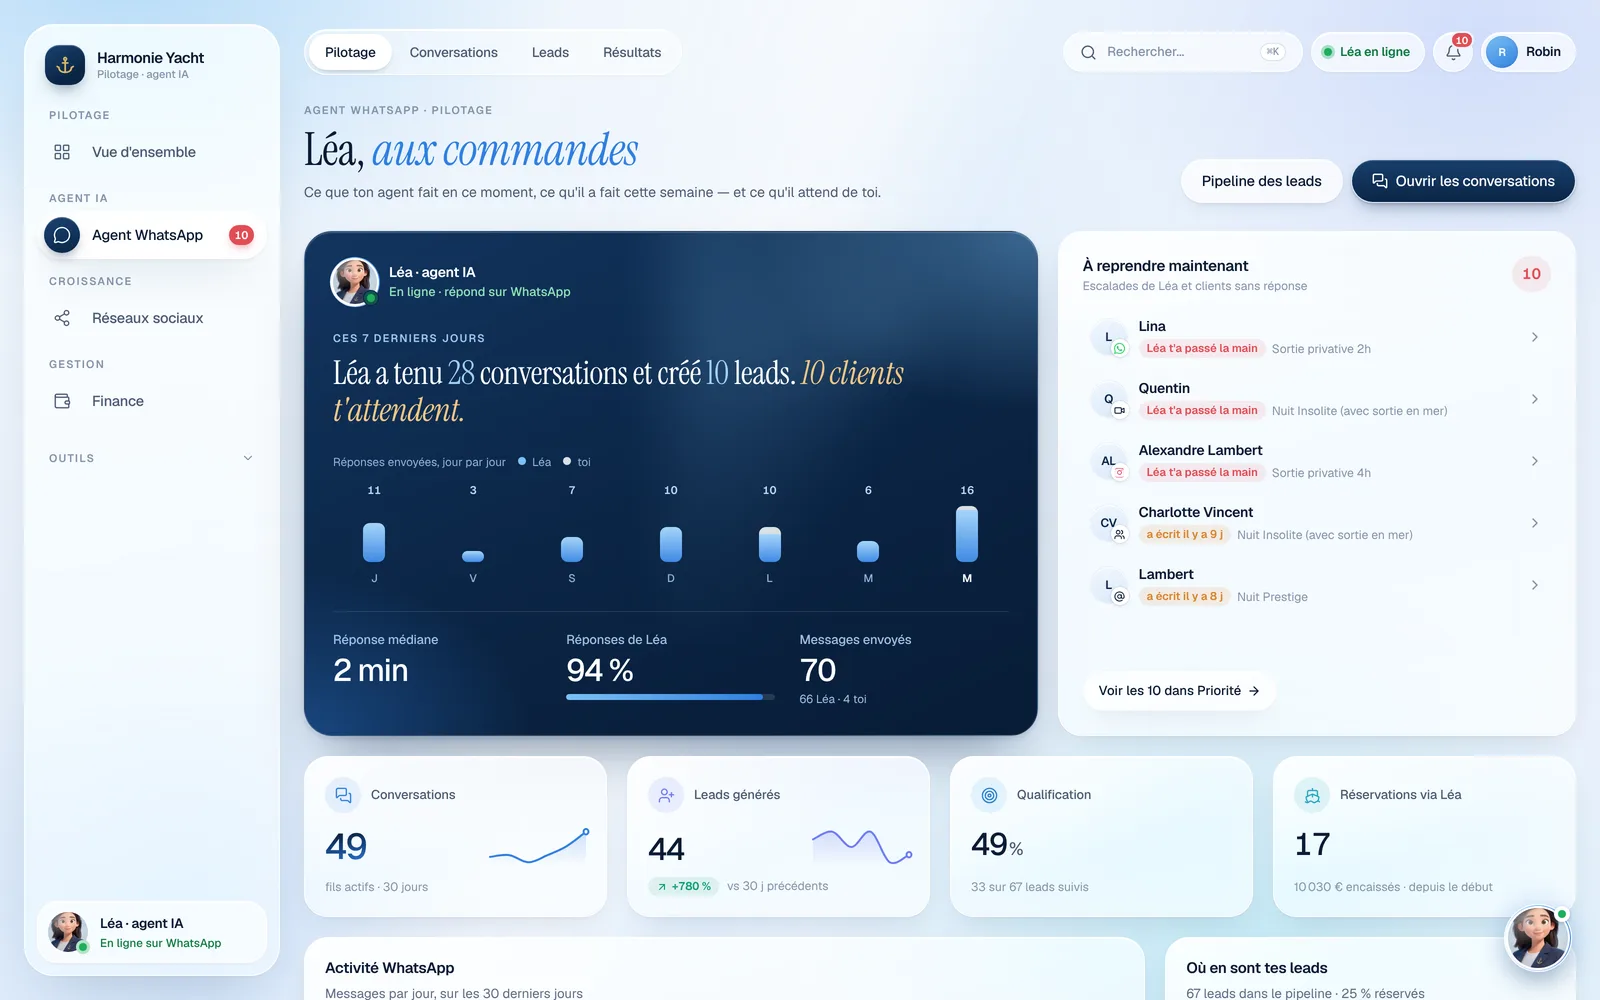
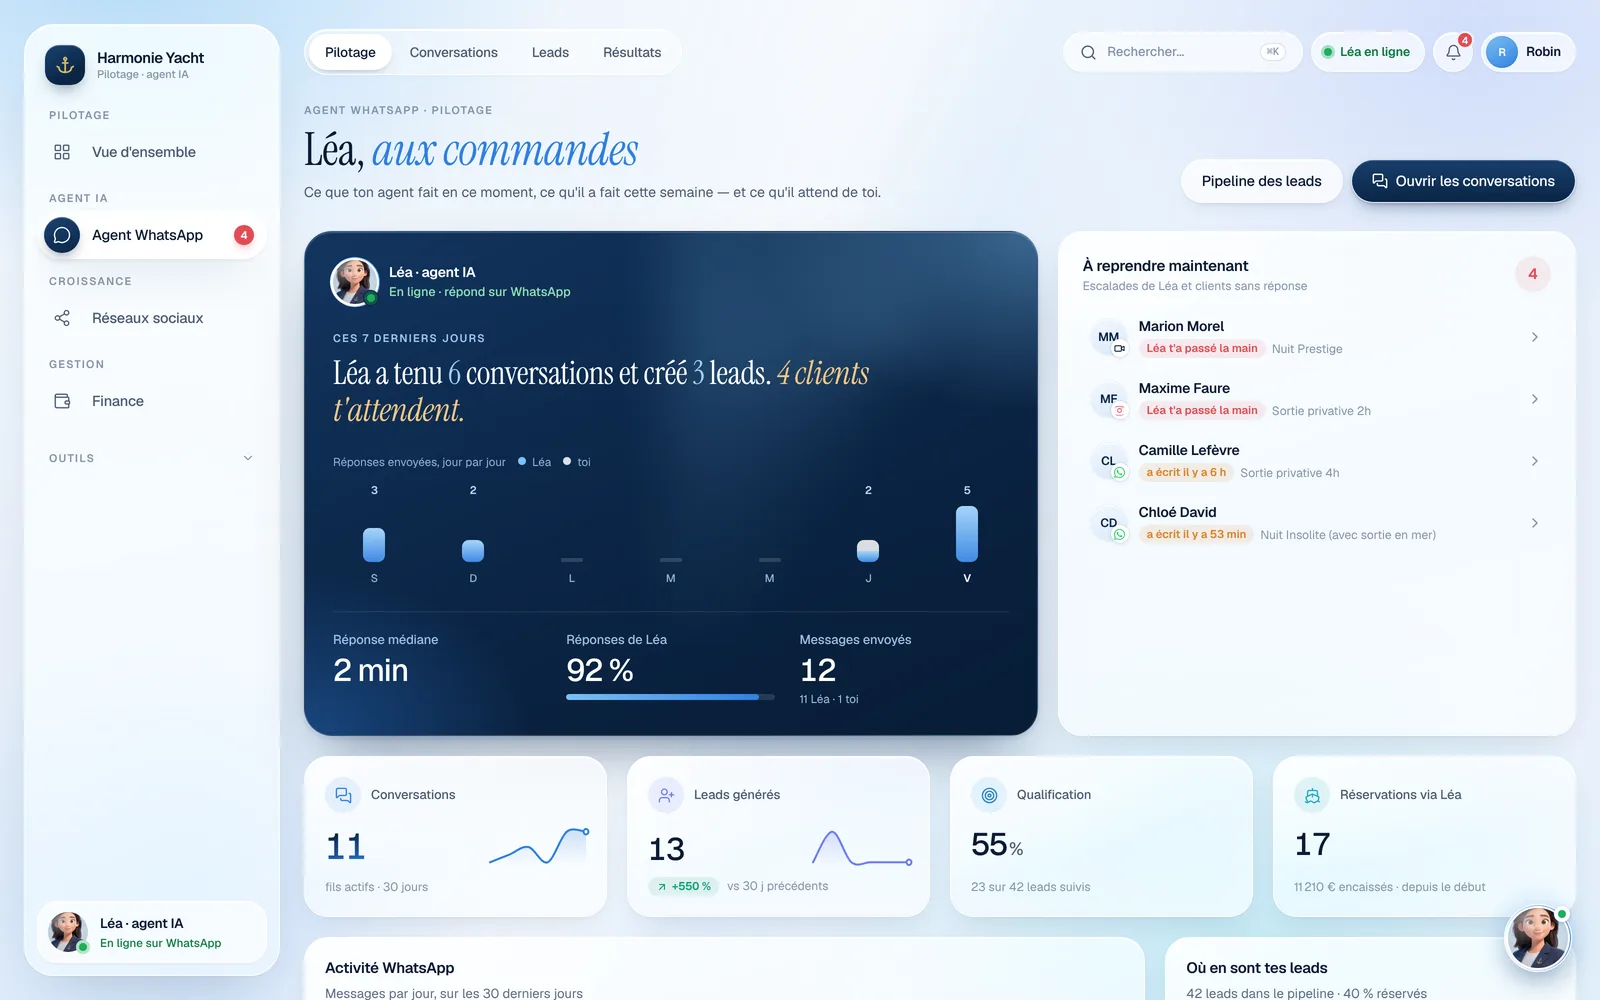
Démo : tableau de bord hors saison, fils WhatsApp réalistes et cohérents avec les fiches
Claude-Session: https://claude.ai/code/session_01FLDoQ7EEeDhU7H7gGycJrU

diff --git a/lib/demo/fixtures/core.ts b/lib/demo/fixtures/core.ts
@@ -103,13 +103,13 @@ const customers: Row[] = Array.from({ length: 70 }, (_, i) => {
 // Répartition réaliste d'un mois de novembre : la saison est finie, les
 // demandes portent sur les fêtes de fin d'année et le printemps.
 const LEAD_PLAN: Array<[string, number]> = [
-  ["new", 9],
-  ["contacted", 11],
-  ["qualified", 9],
-  ["quote_sent", 7],
-  ["followed_up", 6],
+  ["new", 2],
+  ["contacted", 3],
+  ["qualified", 3],
+  ["quote_sent", 3],
+  ["followed_up", 2],
   ["booked", 17],
-  ["lost", 8],
+  ["lost", 12],
 ];
 const CHANNELS = ["whatsapp", "whatsapp", "whatsapp", "whatsapp", "instagram_organic", "instagram_organic", "instagram_organic", "website", "google_organic", "tiktok_organic", "chatgpt", "word_of_mouth", "meta_ads"] as const;
 
@@ -130,10 +130,11 @@ for (const [status, n] of LEAD_PLAN) {
   for (let k = 0; k < n; k++) {
     const first = FIRST[(leadIndex * 3 + 5) % FIRST.length];
     const last = LAST[(leadIndex * 11 + 3) % LAST.length];
-    const recent = leadIndex % 3 !== 0;
-    const createdAgo = recent ? int(0, 29) : int(30, 160);
-    const created = daysFromNow(-createdAgo);
     const active = status !== "booked" && status !== "lost";
+    // Hors saison (novembre) : peu de nouvelles demandes. Les pistes actives
+    // datent du dernier mois ; les réservées et perdues, de la haute saison.
+    const createdAgo = active ? int(0, 29) : int(35, 210);
+    const created = daysFromNow(-createdAgo);
     const offer = pick(OFFERS);
     const desiredAhead =
       leadIndex % 9 === 0 ? int(2, 6) : leadIndex % 4 === 0 ? int(40, 70) : int(10, 180);
@@ -159,8 +160,8 @@ for (const [status, n] of LEAD_PLAN) {
         status === "quote_sent" || status === "qualified" ? int(6, 9) :
         status === "lost" ? int(1, 4) : int(3, 8),
       status,
-      needs_human_intervention: active && (leadIndex === 4 || leadIndex === 13 || leadIndex === 22),
-      last_interaction_at: active ? minutesAgo(int(20, 60 * 24 * 6)) : created.toISOString(),
+      needs_human_intervention: active && (leadIndex === 4 || leadIndex === 9),
+      last_interaction_at: active ? minutesAgo(int(45, 60 * 24 * 12)) : created.toISOString(),
       last_followup_at: status === "followed_up" ? daysFromNow(-int(1, 5)).toISOString() : null,
       followup_count: status === "followed_up" ? int(1, 2) : 0,
       ai_memo: chance(0.8) ? MEMOS[leadIndex % MEMOS.length] : null,
@@ -193,8 +194,8 @@ const SCRIPTS: string[][] = [
   [
     "Salut ! On est 9 filles pour un EVJF en mai, c'est possible de privatiser le bateau ?",
     "Bonjour ! Oui, le bateau est entièrement privatisé pour votre groupe 🥂 Jusqu'à 12 personnes. Vous avez une date précise en mai ?",
-    "Le samedi 17 mai si possible, l'après-midi",
-    "Le 17 mai après-midi est disponible. Pour un EVJF je vous conseille la sortie 4 h (800 €) avec escale baignade à la plage de la Maguelone. On peut prévoir enceinte, glacière et décoration.",
+    "Le samedi 22 mai si possible, l'après-midi",
+    "Le 22 mai après-midi est disponible. Pour un EVJF je vous conseille la sortie 4 h (800 €) avec escale baignade à la plage de la Maguelone. On peut prévoir enceinte, glacière et décoration.",
     "Ça a l'air top ! Je vois avec les filles et je reviens vers vous",
   ],
   [
@@ -215,9 +216,85 @@ const SCRIPTS: string[][] = [
     "Parfait, merci pour la réponse rapide",
     "Avec plaisir ! N'hésitez pas si vous avez d'autres questions 😊",
   ],
+  [
+    "Bonjour, vous faites des cartes cadeaux ? Ce serait pour Noël",
+    "Bonjour ! Oui 🎁 La carte cadeau est valable 1 an, au montant de la sortie de votre choix : 2 h (400 €), 3 h (600 €) ou 4 h (800 €). Je peux vous envoyer le lien pour la commander.",
+    "Parfait, je prends celle de 3 h",
+    "Excellent choix ! Voici le lien : harmonie-yacht.fr/carte-cadeau — vous la recevez par e-mail tout de suite, prête à offrir 🎁",
+  ],
+  [
+    "Bonjour, vous êtes ouverts en ce moment ? On cherche une sortie avant la fin du mois",
+    "Bonjour ! Oui, nous naviguons encore par beau temps jusqu'à mi-décembre ☀ La mer est calme et les couchers de soleil sont superbes en cette saison. Vous seriez combien ?",
+    "Juste nous deux, un dimanche",
+    "Dimanche à 14 h 30 est disponible : sortie 2 h à 400 € pour tout le bateau. Je vous envoie le lien de réservation ?",
+  ],
+  [
+    "Bonjour, ma mère a reçu une carte cadeau pour son anniversaire, comment on choisit la date ?",
+    "Bonjour ! Avec plaisir. Donnez-moi le code de la carte (il commence par HY-) et la date qui vous arrange, je regarde les disponibilités 🙂",
+    "HY-4821, plutôt au printemps",
+    "Merci, votre carte est valide ! Au printemps les week-ends partent vite : je peux vous proposer dès avril. Quel mois vous conviendrait le mieux ?",
+  ],
+  [
+    "Bonjour, on prépare un EVJF pour fin juin, vous avez des disponibilités ?",
+    "Bonjour ! Félicitations à la future mariée 🥂 Fin juin, il nous reste quelques samedis. Vous seriez combien ?",
+    "On est 8",
+    "Parfait, 8 personnes tiennent largement à bord (jusqu'à 12). La sortie 4 h avec baignade est à 800 €. Je vous envoie le détail et les dates libres ?",
+  ],
 ];
 
-const waLeads = leads.filter((l) => l.source_channel === "whatsapp" || leadIndexOf(l) % 3 === 1).slice(0, 28);
+// Une fiche sans nom de famille fait « factice » en vitrine : on complète
+// de façon déterministe (sans toucher au tirage aléatoire des autres données).
+leads.forEach((l, i) => {
+  if (l.first_name && !l.last_name) l.last_name = LAST[(i * 7 + 3) % LAST.length];
+});
+
+
+// Ce que la fiche affiche (offre, occasion, personnes, date, mémo) doit dire la
+// même chose que la conversation : sinon une vitrine montre un EVJF de 9
+// personnes dans le fil et « demande en mariage, 4 personnes » dans la fiche.
+const sundayAfter = (days: number) => {
+  const d = daysFromNow(days);
+  d.setUTCDate(d.getUTCDate() + ((7 - d.getUTCDay()) % 7));
+  return iso(d);
+};
+// Un élément par script de SCRIPTS (même ordre).
+const SCRIPT_META: Array<{ offer: string; occasion: string; party: number; date: string; slot: string; memo: string }> = [
+  { offer: "Sortie privative 3h", occasion: "Anniversaire", party: 6, date: `${YEAR + 1}-03-14`, slot: "Coucher de soleil", memo: MEMOS[0] },
+  { offer: "Nuit Insolite (avec sortie en mer)", occasion: "Noël en amoureux", party: 2, date: `${YEAR}-12-24`, slot: "Soirée", memo: MEMOS[4] },
+  { offer: "Sortie privative 4h", occasion: "EVJF", party: 9, date: `${YEAR + 1}-05-22`, slot: "Après-midi", memo: MEMOS[1] },
+  { offer: "Sortie privative 2h", occasion: "Entre amis", party: 4, date: `${YEAR + 1}-04-17`, slot: "Matinée", memo: MEMOS[5] },
+  { offer: "Sortie privative 3h", occasion: "Séminaire", party: 10, date: `${YEAR + 1}-04-08`, slot: "Après-midi", memo: MEMOS[3] },
+  { offer: "Sortie privative 3h", occasion: "Entre amis", party: 6, date: `${YEAR + 1}-06-05`, slot: "Après-midi", memo: MEMOS[6] },
+  { offer: "Carte cadeau 3h", occasion: "Cadeau de Noël", party: 2, date: `${YEAR + 1}-03-20`, slot: "Après-midi", memo: "Veut offrir une carte cadeau 3 h pour Noël. Lien envoyé, attend le paiement." },
+  { offer: "Sortie privative 2h", occasion: "Couple", party: 2, date: sundayAfter(9), slot: "Après-midi", memo: "Cherche une sortie avant la fin du mois, dimanche 14 h 30. Lien de réservation proposé." },
+  { offer: "Sortie privative 3h", occasion: "Carte cadeau offerte", party: 4, date: `${YEAR + 1}-04-11`, slot: "Après-midi", memo: "A reçu une carte cadeau (HY-4821). Veut une date dès avril." },
+  { offer: "Sortie privative 4h", occasion: "EVJF", party: 8, date: `${YEAR + 1}-06-26`, slot: "Après-midi", memo: "EVJF fin juin, 8 personnes. Attend le détail des dates libres." },
+];
+
+// Hors saison : une dizaine de fils seulement. Les pistes actives d'abord
+// (les plus récentes en tête de liste), puis deux fils de clients déjà passés.
+const isActiveLead = (l: Row) => l.status !== "booked" && l.status !== "lost";
+const waLeads = [
+  ...leads.filter(isActiveLead).slice(0, 8),
+  ...leads.filter((l) => !isActiveLead(l) && l.status === "booked").slice(0, 2),
+];
+// Quel script pour quel fil : 0 et 2 sont ceux qui attendent une réponse,
+// 3 est repris par Robin, les autres se sont terminés avec Léa.
+const SCRIPT_ORDER = [1, 5, 2, 3, 7, 0, 6, 4, 9, 8];
+// Le prénom doit coller à ce que dit la personne (« ma femme », « on est 9
+// filles ») : un EVJF organisé par « Hugo » ferait faux en vitrine.
+const SCRIPT_PEOPLE: Array<[string, string]> = [
+  ["Julien", "Rousseau"], // 0 · anniversaire de sa femme
+  ["Chloé", "David"], // 1 · Nuit Insolite, surprise pour son copain
+  ["Camille", "Lefèvre"], // 2 · EVJF de 9 filles
+  ["Antoine", "Fournier"], // 3 · prix 2 h, pique-nique
+  ["Sophie", "Girard"], // 4 · séminaire d'équipe
+  ["Thomas", "Garnier"], // 5 · météo
+  ["Émilie", "Roux"], // 6 · carte cadeau de Noël
+  ["Maxime", "Faure"], // 7 · sortie en couple avant fin novembre
+  ["Pauline", "Mercier"], // 8 · carte cadeau reçue
+  ["Inès", "Dubois"], // 9 · EVJF fin juin
+];
 function leadIndexOf(l: Row) {
   return leads.indexOf(l);
 }
@@ -229,11 +306,31 @@ export const lead_last_message: Row[] = [];
 waLeads.forEach((lead, i) => {
   const active = lead.status !== "booked" && lead.status !== "lost";
   // Quatre clients attendent une réponse : ils ont écrit en dernier.
-  const awaiting = active && i % 6 === 1;
-  const paused = active && (i === 3 || i === 10);
-  const minutesBack = i < 6 ? int(3, 180) : int(200, 60 * 24 * 12);
+  const awaiting = active && (i === 0 || i === 2);
+  const paused = active && i === 3;
+  const minutesBack =
+    i === 0 ? int(40, 70) :
+    i === 1 ? int(110, 170) :
+    i === 2 ? int(300, 380) :
+    i === 3 ? int(60 * 26, 60 * 30) :
+    i < 8 ? int(60 * 24 * 2, 60 * 24 * 9) :
+    int(60 * 24 * 12, 60 * 24 * 21);
   const lastAt = new Date(NOW.getTime() - minutesBack * 60_000);
-  const script = SCRIPTS[i % SCRIPTS.length];
+  const scriptIndex = SCRIPT_ORDER[i % SCRIPT_ORDER.length];
+  const script = SCRIPTS[scriptIndex];
+  const meta = SCRIPT_META[scriptIndex];
+  const [firstName, lastName] = SCRIPT_PEOPLE[scriptIndex];
+  lead.first_name = firstName;
+  lead.last_name = lastName;
+  const slug = (t: string) => t.normalize("NFD").replace(/[\u0300-\u036f]/g, "").toLowerCase();
+  if (lead.email) lead.email = `${slug(firstName)}.${slug(lastName)}@gmail.com`;
+  if (lead.instagram_handle) lead.instagram_handle = `@${slug(firstName)}_${slug(lastName)}`;
+  lead.interested_offer = meta.offer;
+  lead.occasion = meta.occasion;
+  lead.party_size = meta.party;
+  lead.desired_time_slot = meta.slot;
+  lead.ai_memo = meta.memo;
+  if (lead.status !== "lost") lead.desired_date = meta.date;
   const lines = awaiting && script.length % 2 === 0 ? script.slice(0, -1) : script;
   const convId = uid("c0a70000");
   const name = [lead.first_name, lead.last_name].filter(Boolean).join(" ") || null;

diff --git a/lib/demo/fixtures/agent.ts b/lib/demo/fixtures/agent.ts
@@ -109,14 +109,14 @@ const extraConversations: Row[] = [];
 const extraMessages: Row[] = [];
 const extraLastMessages: Row[] = [];
 
-finished.slice(0, 22).forEach((lead, i) => {
+finished.slice(0, 4).forEach((lead, i) => {
   const script = lead.status === "booked" ? bookedScript(lead) : lostScript(lead);
   // Un fil sur quatre : Robin prend la main pour confirmer lui-même.
   if (lead.status === "booked" && i % 4 === 0) {
     script.push({ me: true, human: true, body: "Bonjour, c'est Robin, le capitaine. Je confirme pour samedi — à très vite à bord !" });
   }
   // Dernière activité répartie sur les 30 jours.
-  const endAt = NOW - (1.2 + i * 1.3) * 86_400_000 - int(30, 600) * MIN;
+  const endAt = NOW - (24 + i * 11) * 86_400_000 - int(30, 600) * MIN;
   const convId = demo.uid("c0a70000");
   const name = [lead.first_name, lead.last_name].filter(Boolean).join(" ") || null;
 
@@ -191,7 +191,7 @@ for (const row of conversations) {
 const hub_credit_ledger: Row[] = Array.from({ length: 460 }, (_, i) => {
   const r = rand();
   const channel = r < 0.78 ? "whatsapp_baileys" : r < 0.93 ? "instagram" : "facebook";
-  const daysAgo = Math.floor(Math.pow(rand(), 1.4) * 180);
+  const daysAgo = rand() < 0.1 ? int(0, 29) : int(30, 200);
   const tokensIn = int(900, 4200);
   const tokensOut = int(80, 420);
   return {

diff --git a/docs/marketing/etapes.md b/docs/marketing/etapes.md
@@ -11,7 +11,7 @@ Rien ici n'est publié sans l'accord de Robin.
 | 2026-11-03 | Léa agit sur tout le tableau de bord | On demande à Léa d'ajouter un lead, relancer un client, noter un rendez-vous ou saisir une dépense, et elle le fait. | Une phrase suffit au lieu de dix clics, et Léa demande un « oui » avant d'écrire à un client. | `captures/2026-11-03-lea-conversation.webp` |
 | 2026-11-03 | Banque et ventes au terminal synchronisées | Les mouvements Qonto et les encaissements SumUp remontent seuls, toutes les heures. | La trésorerie affichée est la vraie, sans rien ressaisir. | — |
 | 2026-11-02 | Santé financière | Un score clair, la trésorerie réelle et le reste à encaisser en une page. | On sait en un coup d'œil combien de mois l'entreprise tient. | `captures/2026-11-02-finance.webp` |
-| 2026-11-02 | Agent WhatsApp piloté depuis le tableau de bord | Voir ce que Léa a répondu, les clients qui attendent et les leads par priorité. | Aucun client sans réponse n'est oublié. | `captures/2026-11-02-agent-whatsapp.webp` |
+| 2026-11-02 | Agent WhatsApp piloté depuis le tableau de bord | Voir ce que Léa a répondu, les clients qui attendent et les leads par priorité. | Aucun client sans réponse n'est oublié. | `captures/2026-11-02-agent-whatsapp.webp`, `captures/2026-11-02-conversation-whatsapp.webp` |
 | 2026-11-02 | Vue d'ensemble « cockpit » | Le brief du jour rédigé par Léa : qui rappeler, la météo, l'argent à encaisser. | On sait quoi faire en ouvrant la page, en moins d'une minute. | `captures/2026-11-02-vue-ensemble.webp` |
 | 2026-11-01 | Léa, la manageuse en 3D | Un assistant visible sur chaque page, à qui l'on pose n'importe quelle question sur l'activité. | On interroge son entreprise comme on parlerait à une collègue. | — |
 | 2026-11-01 | Refonte « Verre glacier » | Un tableau de bord clair, premium, lisible sur ordinateur et téléphone. | Moins de bruit, plus de clarté : l'essentiel d'abord. | `captures/2026-11-02-vue-ensemble.webp` |
